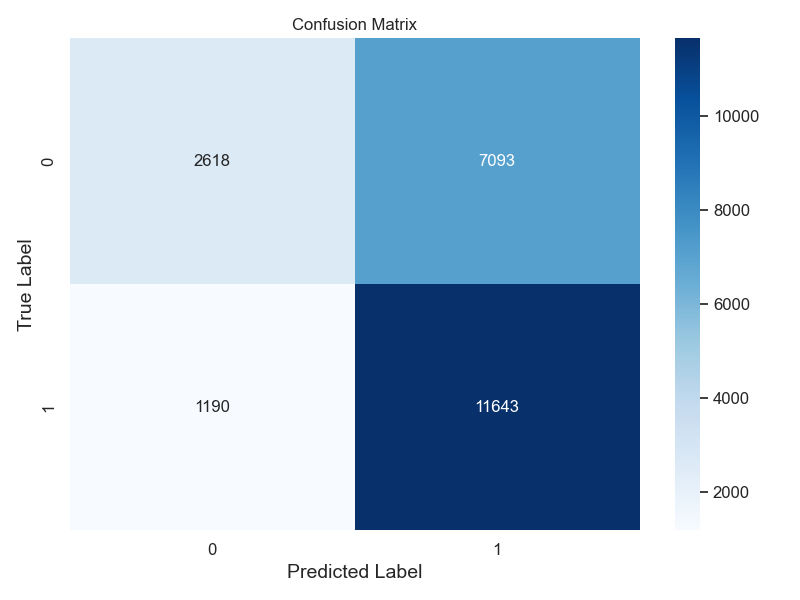
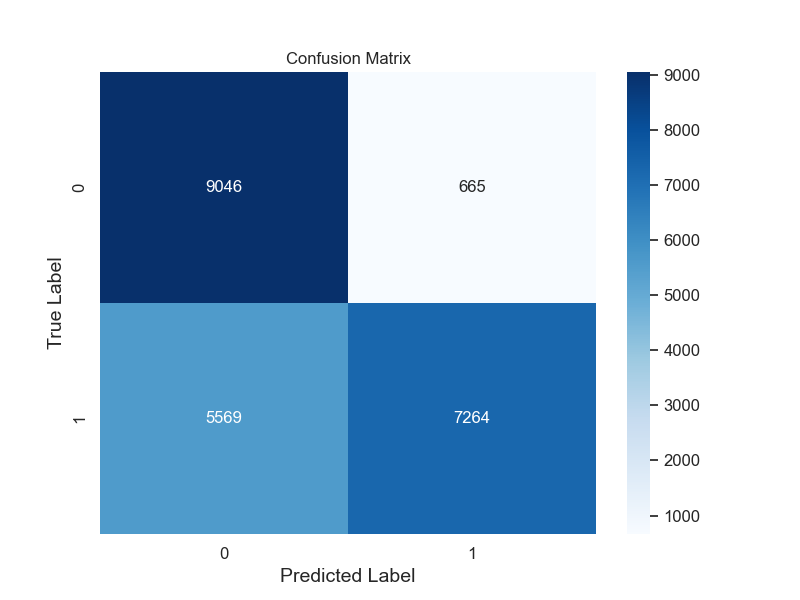
added KNN model function

diff --git a/intrusion_detection.py b/intrusion_detection.py
@@ -14,6 +14,7 @@ from sklearn.preprocessing import StandardScaler, LabelEncoder, OneHotEncoder, l
 from sklearn.ensemble import RandomForestClassifier
 from sklearn.metrics import accuracy_score,classification_report, confusion_matrix, roc_curve,auc
 from sklearn.tree import DecisionTreeClassifier 
+from sklearn. neighbors import KNeighborsClassifier
 
 import warnings
 warnings.filterwarnings('ignore')
@@ -45,7 +46,8 @@ col_names = ["duration","protocol_type","service","flag","src_bytes",
 
 #load nsl dataset and preprocess it
 def load_dataset():
-    global confusion_matrix1, confusion_matrix2
+    global confusion_matrixDecisionTreeClassifier, confusion_matrix2
+    global X_Df, Y_Df, X_Df_test, Y_Df_test
     try:
         df = pd.read_csv(train_url, header=None, names=col_names)
         df_test = pd.read_csv(test_url, header=None, names = col_names)
@@ -294,11 +296,9 @@ def load_dataset():
     test1 = time.time() - test0
 
     # Create confusion matrix
-    confusion_matrix1=pd.crosstab(Y_Df_test, Y_Df_pred, rownames=['Actual attacks'], colnames=['Predicted attacks'])
-    print(confusion_matrix1.shape)
-    confusion_matrix2=confusion_matrix(Y_Df_test,Y_Df_pred)
-
-    print(confusion_matrix2.shape)
+    confusion_matrixDecisionTreeClassifier=pd.crosstab(Y_Df_test, Y_Df_pred, rownames=['Actual attacks'], colnames=['Predicted attacks'])
+    print(confusion_matrixDecisionTreeClassifier.shape)
+    
     print(pd.crosstab(Y_Df_test, Y_Df_pred, rownames=['Actual attacks'], colnames=['Predicted attacks']))
     
 
@@ -318,6 +318,11 @@ def load_dataset():
     # Save trained model
     with open('IDS_model_DECISION TREE CLASSIFIER.pkl', 'wb') as file:
         pickle.dump(clf_Tree, file)
+
+
+    #K-NEAREST NEIGHBOUR
+
+
 
     ''' #SUPPORT VECTOR MACHINE
     clf_svm= svm.SVC()
@@ -360,4 +365,40 @@ def load_dataset():
 
     return df
 
-print(load_dataset())
+#print(load_dataset())
+
+
+#K-NEAREST NEIGHBOUR
+def KNN():
+    load_dataset()
+    global confusion_matrixKNN
+
+    clf_KNN = KNeighborsClassifier()
+    train0 = time.time()
+    clf_KNN.fit(X_Df, Y_Df.astype(int))
+    train1 = time.time() - train0
+
+    #for the test dataset
+    test0 = time.time()
+    Y_pred = clf_KNN.predict((X_Df_test))
+    test1 = time.time() - test0
+
+    #confusion matrix
+    confusion_matrixKNN = pd.crosstab(Y_Df_test, Y_pred, rownames=['Actual attacks'], colnames=['Predicted attacks'])
+
+    #accuracy, precision, f-measure and train time scores
+    accuracy = cross_val_score(clf_KNN, X_Df_test, Y_Df_test, cv=10, scoring='accuracy')
+    print("Accuracy: %0.5f (+/- %0.5f)" % (accuracy.mean(), accuracy.std() * 2))
+    precision = cross_val_score(clf_KNN, X_Df_test, Y_Df_test, cv=10, scoring='precision')
+    print("Precision: %0.5f (+/- %0.5f)" % (precision.mean(), precision.std() * 2))
+    recall = cross_val_score(clf_KNN, X_Df_test, Y_Df_test, cv=10, scoring='recall')
+    print("Recall: %0.5f (+/- %0.5f)" % (recall.mean(), recall.std() * 2))
+    f = cross_val_score(clf_KNN, X_Df_test, Y_Df_test, cv=10, scoring='f1')
+    print("F-measure: %0.5f (+/- %0.5f)" % (f.mean(), f.std() * 2))
+    print("train_time:%.3fs\n" %train1)
+    print("test_time:%.3fs\n" %test1)
+
+    return confusion_matrixKNN
+
+print(KNN())
+

diff --git a/app.py b/app.py
@@ -1,17 +1,19 @@
-from flask import Flask, flash, render_template,request,redirect, url_for, jsonify
-import pandas as pd
-import matplotlib.pyplot as plt
-from sklearn.tree import DecisionTreeClassifier
 import io
 import base64
+import pandas as pd
+import os
+import pickle
+import seaborn as sns
+import matplotlib.pyplot as plt
+
+
+from flask import Flask, flash, render_template,request,redirect, url_for, jsonify
+from sklearn.tree import DecisionTreeClassifier
 from flask_wtf import FlaskForm
 from wtforms import FileField, SubmitField
 from werkzeug.utils import secure_filename
-import os
-from intrusion_detection import confusion_matrix1,confusion_matrix2
+from intrusion_detection import confusion_matrixDecisionTreeClassifier,confusion_matrixKNN
 from intrusion_detection import load_dataset, col_names,confusion_matrix
-import pickle
-import seaborn as sns
 
 
 app = Flask(__name__)
@@ -94,7 +96,7 @@ def submit():
            
             # Save confusion matrix plot
             plt.figure(figsize=(8, 6))
-            sns.heatmap(confusion_matrix1, annot=True, fmt='d', cmap='Blues')
+            sns.heatmap(confusion_matrixDecisionTreeClassifier, annot=True, fmt='d', cmap='Blues')
             plt.title('Confusion Matrix')
             plt.xlabel('Predicted Label')
             plt.ylabel('True Label')
@@ -114,6 +116,25 @@ def submit():
 
              with open('intrusion_detection_model.pkl', "rb") as file:
                 clf = pickle.load(file)
+
+                 # Save confusion matrix plot
+                plt.figure(figsize=(8, 6))
+                sns.heatmap(confusion_matrixKNN, annot=True, fmt='d', cmap='Blues')
+                plt.title('Confusion Matrix')
+                plt.xlabel('Predicted Label')
+                plt.ylabel('True Label')
+                #plt.tight_layout()
+                plt.savefig('confusion_matrix.png')
+
+                # Convert plot to base64 for display in HTML
+                with open('confusion_matrix.png', 'rb') as img_file:
+                    img_base64 = base64.b64encode(img_file.read()).decode('utf-8')
+
+                
+
+                return render_template('result.html', confusion_matrix=img_base64)
+
+
 
         else:
 
